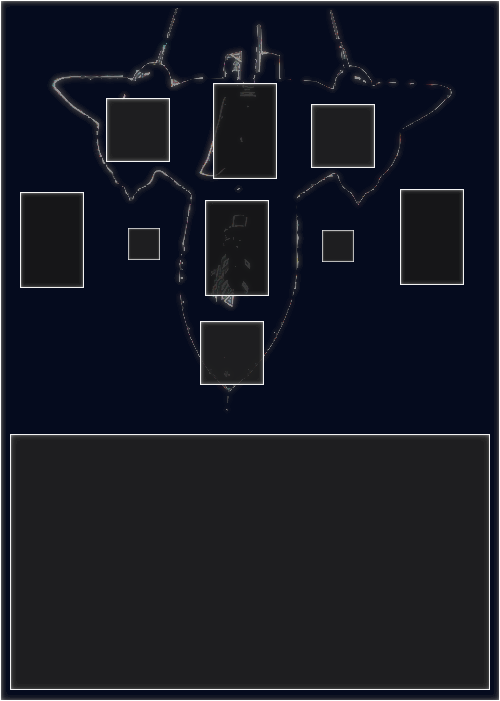
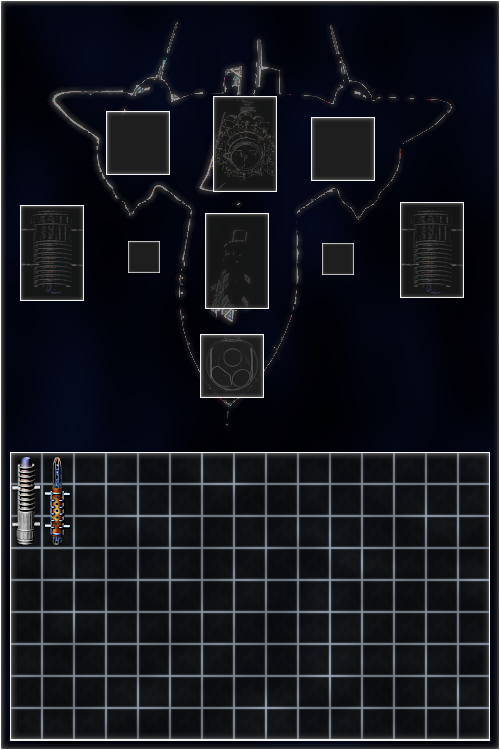
NEW: Item display for inventory view.

diff --git a/tiny_places_standalone/src/ui/player_inventory_view.rs b/tiny_places_standalone/src/ui/player_inventory_view.rs
@@ -1,21 +1,33 @@
 use std::path::Path;
+use std::cell::OnceCell;
+use std::rc::Rc;
+use std::collections::HashMap;
 
 use graphics::{draw_state::DrawState, Rectangle, Viewport, ImageSize, Image,};
 use opengl_graphics::{GlGraphics, Texture, TextureSettings};
 
 use crate::ui::{UiHead, UiComponent, UiArea};
+use crate::Inventory;
+use crate::inventory::Slot;
 
 
 pub struct PlayerInventoryView {
     area: UiArea,
     texture: Texture,
+    inventory: Rc<OnceCell<Inventory>>,
+
+    offsets: HashMap<Slot, [i32; 2]>,
 }
 
 
 impl PlayerInventoryView {
-    pub fn new(x: i32, y: i32) -> UiComponent {
+
+    pub fn new(x: i32, y: i32, inventory: Rc<OnceCell<Inventory>>) -> UiComponent {
 
         let texture = Texture::from_path(Path::new("resources/ui/inventory_bg.png"), &TextureSettings::new()).unwrap();
+
+        let mut offsets = HashMap::new();
+        offsets.insert(Slot::BAG, [10, 452]);
 
         let inv = PlayerInventoryView {
             area: UiArea {
@@ -26,6 +38,8 @@ impl PlayerInventoryView {
             },
             
             texture,
+            inventory,
+            offsets,
         };
 
         UiComponent {
@@ -36,7 +50,6 @@ impl PlayerInventoryView {
 
 
 impl UiHead for PlayerInventoryView {
-
 
     fn draw(&self, viewport: Viewport, gl: &mut GlGraphics, draw_state: &DrawState, x: i32, y: i32) {
         let area = &self.area;
@@ -55,9 +68,28 @@ impl UiHead for PlayerInventoryView {
             let m_image   = 
                 Image::new()
                     .rect([xp as f64, yp as f64, self.texture.get_width() as f64, self.texture.get_height() as f64])
-                    .color([1.0, 1.0, 1.0, 0.9]);
+                    .color([1.0, 1.0, 1.0, 0.95]);
             m_image.draw(&self.texture, draw_state, tf, gl);
 
+            let inventory = self.inventory.get().unwrap();
+        
+            // show all items which are in the inventory space
+            for entry in &inventory.entries {
+
+                if entry.slot == Slot::BAG {
+                    let offsets = self.offsets.get(&Slot::BAG).unwrap();
+                    let entry_x = xp + offsets[0] + entry.location_x * 32;
+                    let entry_y = yp + offsets[1] + entry.location_y * 32;
+                    
+                    let item = inventory.bag.get(&entry.item_id).unwrap();
+                    let w = item.inventory_w * 32;
+                    let h = item.inventory_h * 32;
+
+                    let rect = Rectangle::new([0.2, 0.7, 0.0, 1.0]); 
+                    rect.draw([entry_x as f64, entry_y as f64, w as f64, h as f64], draw_state, c.transform, gl);
+                }
+            }
+        
         });
     }
 }

diff --git a/tiny_places_standalone/src/main.rs b/tiny_places_standalone/src/main.rs
@@ -19,6 +19,8 @@ use piston::input::{RenderArgs, RenderEvent,
 use piston::window::WindowSettings;
 
 use std::path::Path;
+use std::cell::OnceCell;
+use std::rc::Rc;
 
 mod item;
 mod inventory;
@@ -35,6 +37,7 @@ use map::{Map, MapObject, MAP_GROUND_LAYER, MAP_DECO_LAYER, MAP_CLOUD_LAYER};
 use ui::{UI, UiController, TileSet, Tile, ScrollEvent};
 use editor::MapEditor;
 use game::Game;
+use item::{Item, ItemFactory};
 use inventory::Inventory;
 
 
@@ -42,7 +45,7 @@ pub struct GameWorld {
     map: Map,
     layer_tileset: [TileSet; 7],
 
-    player_inventory: Inventory,
+    player_inventory: Rc<OnceCell<Inventory>>,
 }
 
 pub struct GameControllers {
@@ -88,7 +91,7 @@ impl App {
         let decoration_tiles = TileSet::load("../tiny_places_client/resources/objects", "map_objects.tica");
         let cloud_tiles = TileSet::load("../tiny_places_client/resources/clouds", "map_objects.tica");
 
-        let mut layer_tileset = [
+        let layer_tileset = [
             ground_tiles,
             decoration_tiles,
             cloud_tiles,
@@ -104,6 +107,15 @@ impl App {
         let editor = MapEditor::new();
         let game = Game::new();
 
+        let mut inv = Inventory::new();
+
+        let mut factory = ItemFactory::new();
+        let demo_item = factory.make_item();
+        inv.put_item(demo_item);
+
+        let inv_cell = OnceCell::new();
+        inv_cell.set(inv);
+
         App {        
 
             gl: GlGraphics::new(opengl),
@@ -114,7 +126,7 @@ impl App {
             world: GameWorld {
                 map,
                 layer_tileset,
-                player_inventory: Inventory::new(),
+                player_inventory: Rc::new(inv_cell),
             },
             controllers: GameControllers {
                 editor,
@@ -340,7 +352,7 @@ pub fn screen_to_world_pos(ui: &UI, player_pos: &Vector2<f64>, screen_pos: &Vect
 
 fn main() {
     
-    let window_size = [1000, 750];
+    let window_size = [1200, 770];
 
     // Change this to OpenGL::V2_1 if not working.
     let opengl = OpenGL::V3_2;

diff --git a/tiny_places_standalone/src/inventory.rs b/tiny_places_standalone/src/inventory.rs
@@ -1,7 +1,7 @@
 use std::collections::HashMap;
 use crate::item::Item;
 
-#[derive(PartialEq, Eq)]
+#[derive(PartialEq, Eq, Debug, Hash)]
 pub enum Slot {
     BAG = 0,
     STASH = 1,
@@ -12,27 +12,44 @@ pub enum Slot {
     ENGINE = 6,
 }
 
-struct Entry {
-    item_id: usize,
-    slot: usize,    
+#[derive(Debug)]
+pub struct Entry {
+    pub item_id: usize,
+    pub slot: Slot,
+    pub location_x: i32,
+    pub location_y: i32,    
 }
 
-
+#[derive(Debug)]
 pub struct Inventory {
 
     // Keeps all the items (owns all the items)
-    item_bag: HashMap <usize, Item>,
+    pub bag: HashMap <usize, Item>,
 
     // describes details about each of the owned items
-    entries: Vec<Entry>,
+    pub entries: Vec<Entry>,
 }
 
 
 impl Inventory {
     pub fn new() -> Inventory {
         Inventory {
-            item_bag: HashMap::new(),
+            bag: HashMap::new(),
             entries: Vec::new(),
         }
+    }
+
+    pub fn put_item(&mut self, item: Item) {
+
+        let entry = Entry {
+            item_id: item.id,
+            slot: Slot::BAG,
+            location_x: 3,
+            location_y: 0,
+        };
+
+        self.bag.insert(item.id, item);
+        self.entries.push(entry);
+
     }
 }

diff --git a/tiny_places_standalone/src/item.rs b/tiny_places_standalone/src/item.rs
@@ -1,10 +1,17 @@
+#[derive(Debug)]
 pub struct Item {
     
     // the ID must be unique in a game
-    id: usize,
+    pub id: usize,
 
     pub name: String,
-    pub mods: Vec<Mod>,    
+    pub mods: Vec<Mod>,
+    
+    pub inventory_tile_id: usize,
+    pub inventory_w: i32,
+    pub inventory_h: i32,
+
+    pub map_tile_id: usize,
 }
 
 
@@ -28,7 +35,7 @@ impl Item {
 }
 
 
-struct ItemFactory
+pub struct ItemFactory
 {
     next_id: usize,
 }
@@ -49,6 +56,12 @@ impl ItemFactory {
             id, 
             name: "".to_string(),
             mods: Vec::new(),
+
+            inventory_tile_id: 1,
+            inventory_w: 2,
+            inventory_h: 3,
+        
+            map_tile_id: 1,
         }
     }
 }
@@ -56,7 +69,7 @@ impl ItemFactory {
 
 
 
-#[derive(PartialEq, Eq)]
+#[derive(PartialEq, Eq, Debug)]
 pub enum Attribute {
 
     Structure = 1,
@@ -67,7 +80,7 @@ pub enum Attribute {
     Energy = 5,
 }
 
-
+#[derive(Debug)]
 pub struct Mod {
     attribute: Attribute,
     power: i32,

diff --git a/tiny_places_standalone/src/game.rs b/tiny_places_standalone/src/game.rs
@@ -53,7 +53,7 @@ impl UiController for Game {
                     }
 
                     if event.args.button == piston::Button::Keyboard(piston::Key::I) {
-                        let piv = PlayerInventoryView::new(((ui.window_size[0] - 500) / 2) as i32, 20);
+                        let piv = PlayerInventoryView::new(((ui.window_size[0] - 500) / 2) as i32, 10, world.player_inventory.clone());
                         ui.root.head.add_child(Rc::new(piv));
                     }        
                 },
